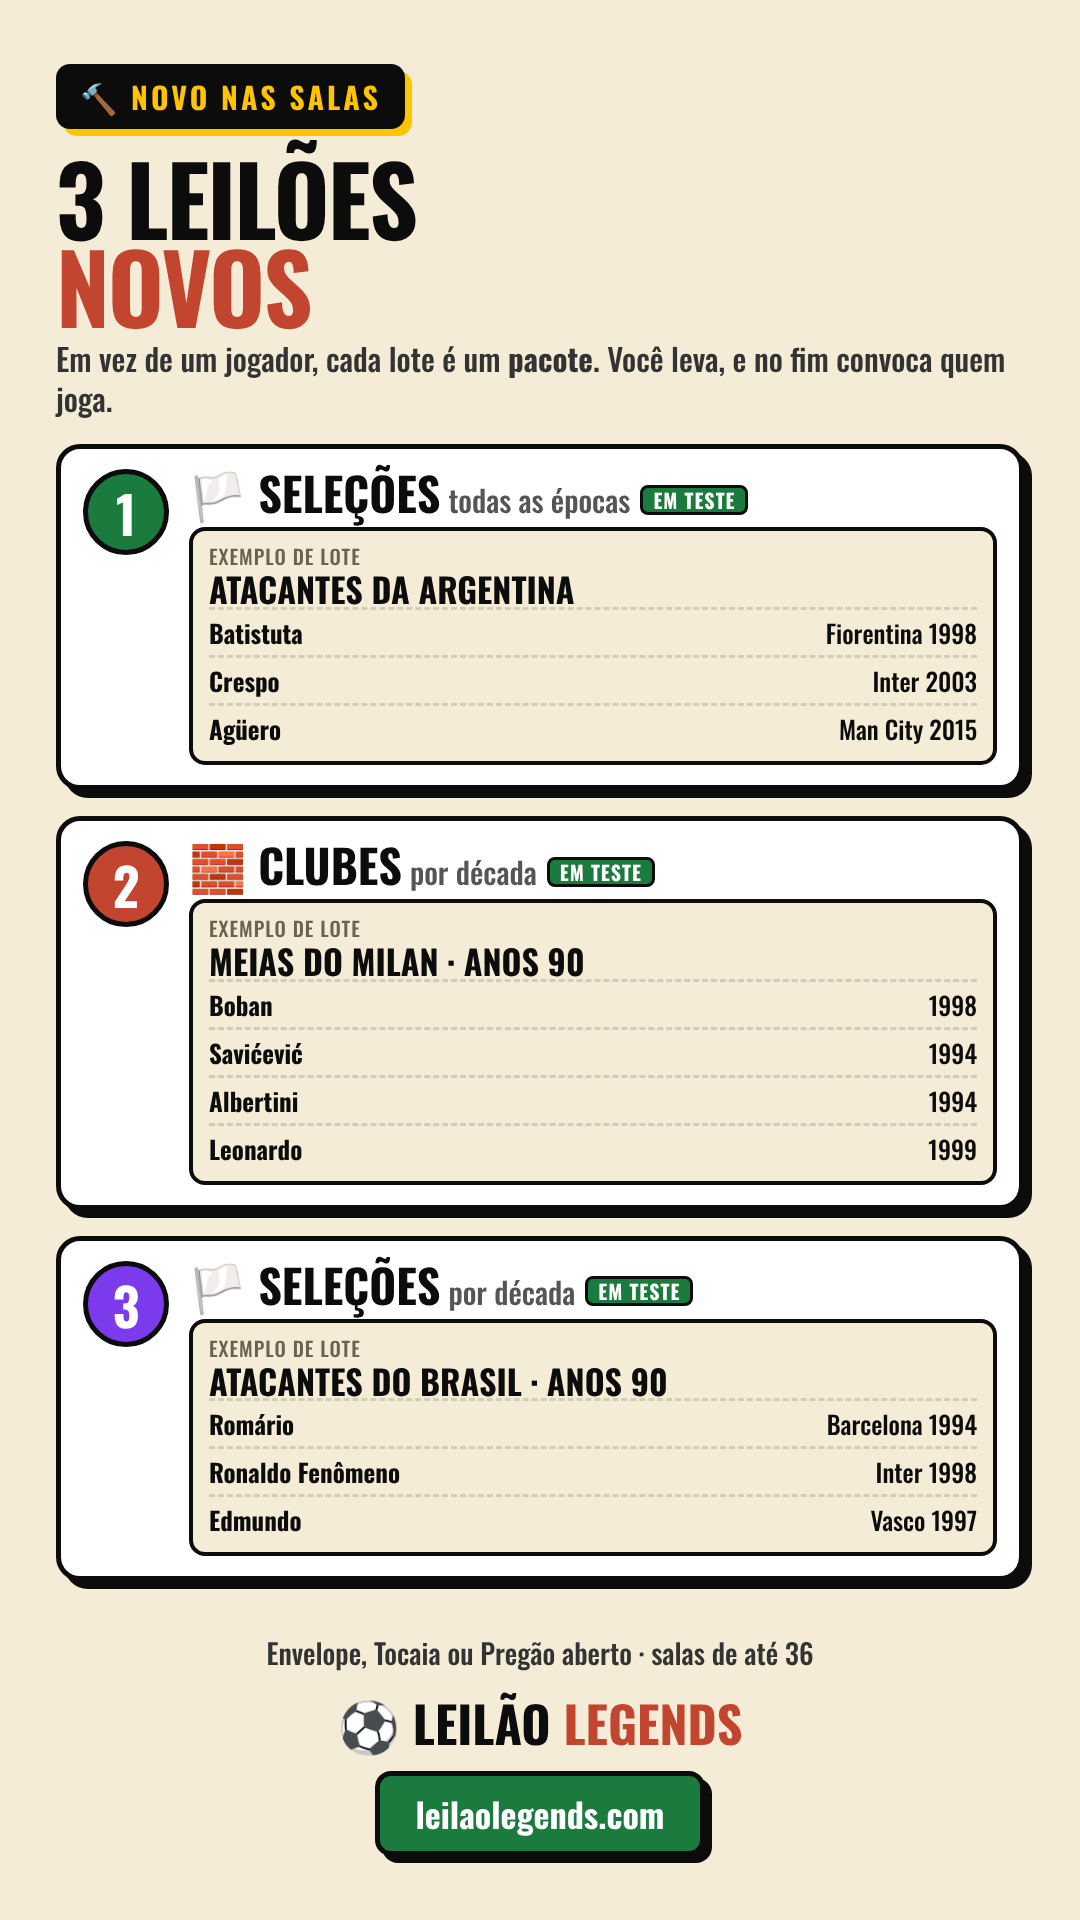
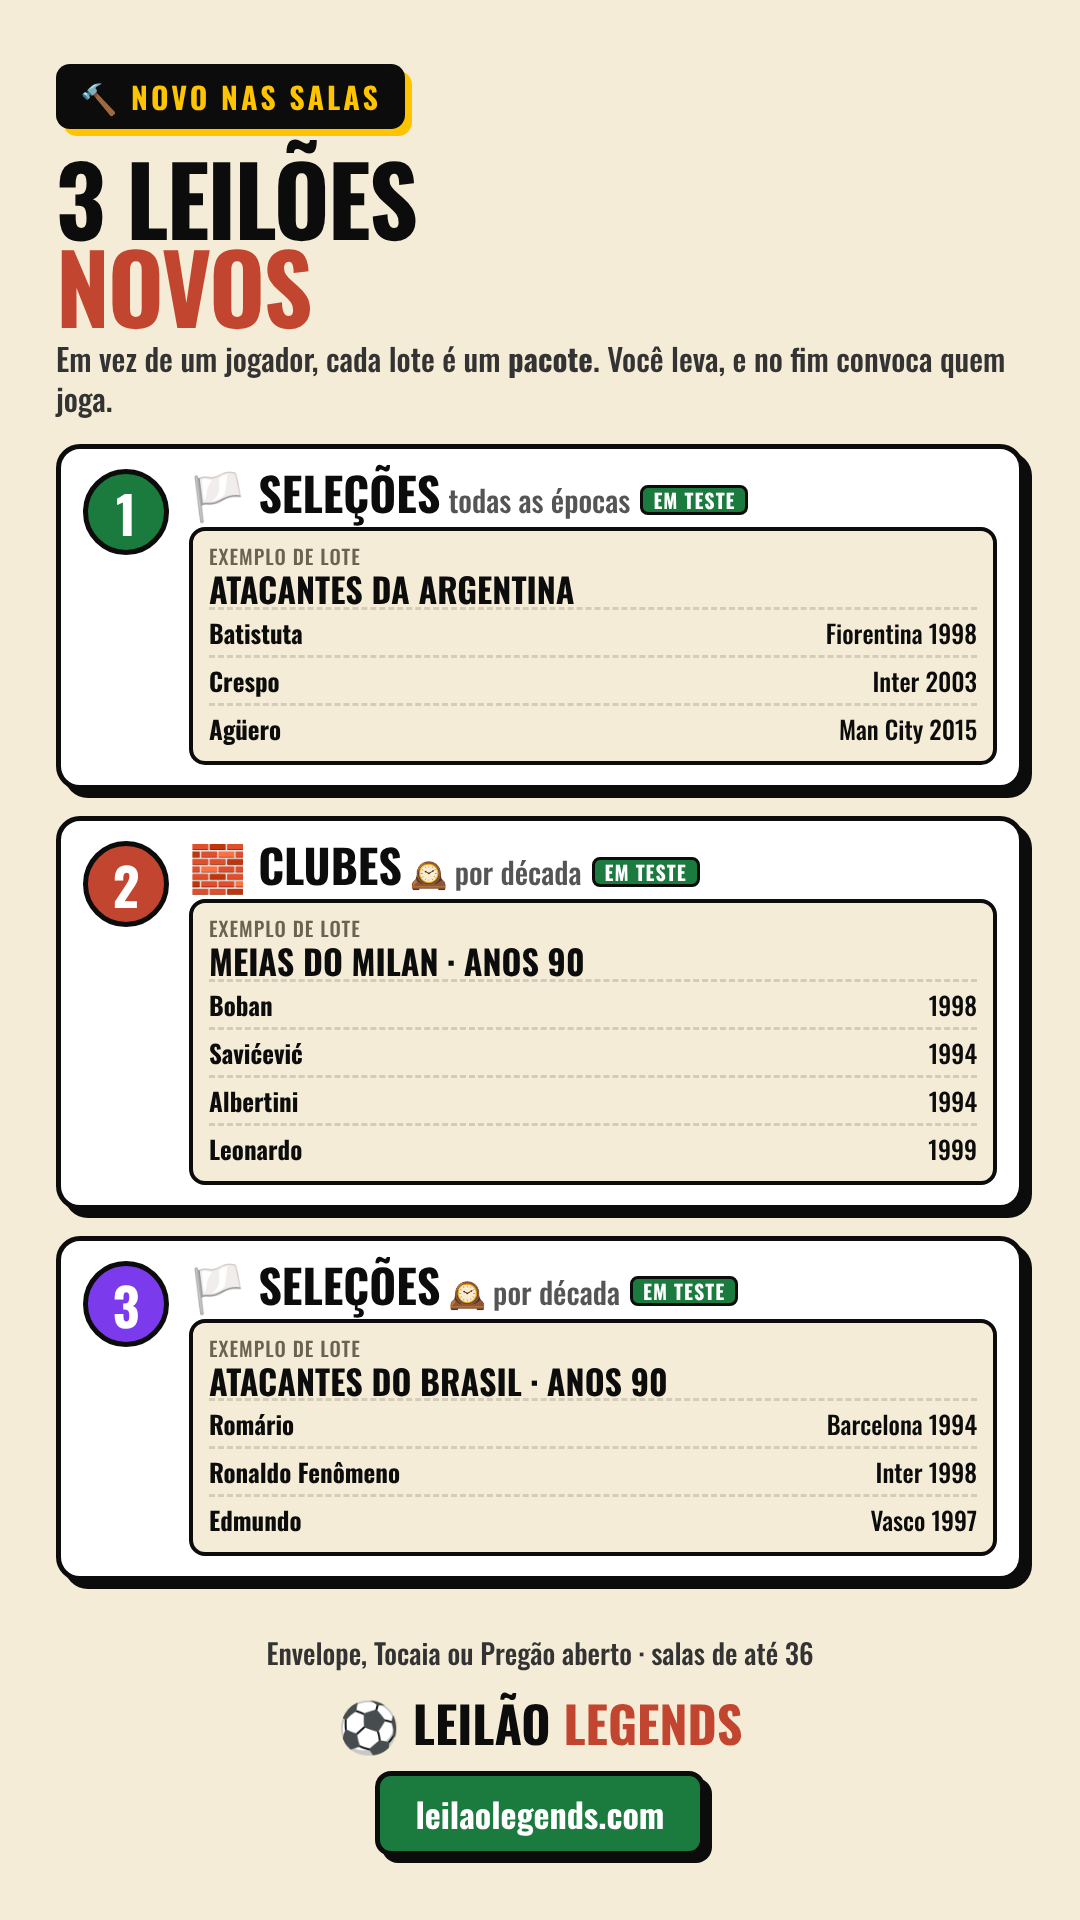
Por década: emoji vira relógio antigo 🕰 (lista de salas, criar sala, novidade e story) — pedido do Diego
Claude-Session: https://claude.ai/code/session_018Ap1zPCMVL9XeZJN3u93ZA

Changed region(s): [[0.3972, 0.6562, 0.7028, 0.6875], [0.3667, 0.4375, 0.6417, 0.4688]]

diff --git a/src/escalacao/lobby.tsx b/src/escalacao/lobby.tsx
@@ -111,7 +111,7 @@ type GS = EscState & { __game?: string; pregaoAberto?: boolean; formation?: Form
 /** 🧱🏳📅 o nome do tipo de pacote da sala (31/10): Clubes · Seleções, e "por década" quando for */
 function tipoPacote(gs: { clubes?: boolean; pacSelecao?: boolean; pacDecada?: boolean } | undefined, curto = false): string {
   const base = gs?.pacSelecao ? tr('🏳 Seleções', '🏳 Nations') : tr('🧱 Clubes', '🧱 Clubs')
-  return gs?.pacDecada ? `${base}${curto ? ' 📅' : tr(' · por década', ' · by decade')}` : base
+  return gs?.pacDecada ? `${base}${curto ? ' 🕰' : tr(' · por década', ' · by decade')}` : base
 }interface RoomInfo { id: string; code: string; host_id: string; max_players: number; status: string; game_state?: GS; updated_at?: string; liga_dono?: string | null; liga_vice?: string | null } // ⭐ liga_dono/liga_vice: vice das Minhas Ligas (19/10)
 type OpenRoom = RoomInfo & { count: number }
 
@@ -3740,7 +3740,7 @@ export function EscLobby() {
                   {rapidoClubes && clubesOn && !nbaSala && (
                     <div className="mt-2">
                       <p className="text-[11px] uppercase mb-1.5" style={{ color: '#6b6250', letterSpacing: '.08em', ...OSWALD }}>{tr('Época', 'Era')}</p>
-                      <Seg options={[[false, tr('🌍 Todas as épocas', '🌍 All eras')], [true, tr('📅 Por década', '📅 By decade')]] as [boolean, string][]} value={pacDecada} onSet={v => setPacDecada(v)}
+                      <Seg options={[[false, tr('🌍 Todas as épocas', '🌍 All eras')], [true, tr('🕰 Por década', '🕰 By decade')]] as [boolean, string][]} value={pacDecada} onSet={v => setPacDecada(v)}
                         selos={{ true: tr('em teste', 'testing') }} />
                     </div>
                   )}
@@ -3749,10 +3749,10 @@ export function EscLobby() {
                       ? tr('🧱 Cada lote é uma POSIÇÃO de uma franquia (ex.: Armadores dos Lakers). Cada um leva um pacote por posição e, no fim, CONVOCA quem joga — 1 por posição, o seu quinteto (90s). Quem sobrar vai pros bots. Vale com envelope cego, Tocaia ou pregão aberto.', '🧱 Each lot is a franchise POSITION (e.g. Lakers Point Guards). Everyone takes one pack per position and, at the end, CALLS UP who plays — 1 per position, your starting five (90s). Leftovers go to the bots. Works with sealed bid, Ambush or open auction.')
                       : rapidoClubes && pacSelecao
                       ? (pacDecada
-                        ? tr('🏳📅 Cada lote é um SETOR de uma SELEÇÃO numa década (ex.: Ataque do Brasil · anos 90). Cada um leva um pacote por setor e, no fim, CONVOCA quem joga (90s). Usa os 3 baralhos juntos. Vale com envelope cego, Tocaia ou pregão aberto.', '🏳📅 Each lot is a SECTOR of a NATIONAL TEAM in one decade (e.g. Attack of Brasil · the \'90s). Everyone takes one pack per sector and, at the end, CALLS UP who plays (90s). Uses all 3 decks. Works with sealed bid, Ambush or open auction.')
+                        ? tr('🏳🕰 Cada lote é um SETOR de uma SELEÇÃO numa década (ex.: Ataque do Brasil · anos 90). Cada um leva um pacote por setor e, no fim, CONVOCA quem joga (90s). Usa os 3 baralhos juntos. Vale com envelope cego, Tocaia ou pregão aberto.', '🏳🕰 Each lot is a SECTOR of a NATIONAL TEAM in one decade (e.g. Attack of Brasil · the \'90s). Everyone takes one pack per sector and, at the end, CALLS UP who plays (90s). Uses all 3 decks. Works with sealed bid, Ambush or open auction.')
                         : tr('🏳 Cada lote é um SETOR de uma SELEÇÃO (ex.: Ataque da Argentina), com jogadores de todas as épocas. Cada um leva um pacote por setor e, no fim, CONVOCA quem joga (90s). Usa os 3 baralhos juntos. Vale com envelope cego, Tocaia ou pregão aberto.', '🏳 Each lot is a SECTOR of a NATIONAL TEAM (e.g. Attack of Argentina), with players from every era. Everyone takes one pack per sector and, at the end, CALLS UP who plays (90s). Uses all 3 decks. Works with sealed bid, Ambush or open auction.'))
                       : rapidoClubes && pacDecada && !nbaSala
-                      ? tr('🧱📅 Cada lote é um SETOR de um clube numa década (ex.: Meio do Milan · anos 90). Cada um leva um pacote por setor e, no fim, CONVOCA quem joga (90s). Usa os 3 baralhos juntos. Vale com envelope cego, Tocaia ou pregão aberto.', '🧱📅 Each lot is a SECTOR of a club in one decade (e.g. Midfield of Milan · the \'90s). Everyone takes one pack per sector and, at the end, CALLS UP who plays (90s). Uses all 3 decks. Works with sealed bid, Ambush or open auction.')
+                      ? tr('🧱🕰 Cada lote é um SETOR de um clube numa década (ex.: Meio do Milan · anos 90). Cada um leva um pacote por setor e, no fim, CONVOCA quem joga (90s). Usa os 3 baralhos juntos. Vale com envelope cego, Tocaia ou pregão aberto.', '🧱🕰 Each lot is a SECTOR of a club in one decade (e.g. Midfield of Milan · the \'90s). Everyone takes one pack per sector and, at the end, CALLS UP who plays (90s). Uses all 3 decks. Works with sealed bid, Ambush or open auction.')
                       : rapidoClubes
                       ? tr('🧱 Cada lote é um SETOR de um clube (ex.: Goleiros do Palmeiras). Cada um leva um pacote por setor e, no fim, CONVOCA quem joga (90s). Quem sobrar vai pros bots. Usa os 3 baralhos juntos. Vale com envelope cego ou Tocaia.', '🧱 Each lot is a club SECTOR (e.g. Palmeiras goalkeepers). Everyone takes one pack per sector and, at the end, CALLS UP who plays (90s). Leftovers go to the bots. Uses all 3 decks, with sealed bid or Ambush.')
                       : clubesOn

diff --git a/src/escalacao/novidades.ts b/src/escalacao/novidades.ts
@@ -34,7 +34,7 @@ import { getLang } from './lang'
 
 // ⚠ SEMPRE em ordem: a mais NOVA em cima.
 export const NOVIDADES: Novidade[] = [
-  { data: '2026-10-31', emoji: '🏳', titulo: 'Leilão de Seleções e Por década', texto: 'Ao criar sala, além de Jogador e Clubes agora tem 🏳 Seleções ("Ataque da Argentina") e a época: todas misturadas ou 📅 por década ("Meio do Milan · anos 90"). Em teste. (Online)', en: { titulo: 'Nations auction and By decade', texto: 'When creating a room, besides Player and Clubs there is now 🏳 Nations ("Attack of Argentina") and the era: all mixed or 📅 by decade ("Midfield of Milan · the \'90s"). In testing. (Online)' } },
+  { data: '2026-10-31', emoji: '🏳', titulo: 'Leilão de Seleções e Por década', texto: 'Ao criar sala, além de Jogador e Clubes agora tem 🏳 Seleções ("Ataque da Argentina") e a época: todas misturadas ou 🕰 por década ("Meio do Milan · anos 90"). Em teste. (Online)', en: { titulo: 'Nations auction and By decade', texto: 'When creating a room, besides Player and Clubs there is now 🏳 Nations ("Attack of Argentina") and the era: all mixed or 🕰 by decade ("Midfield of Milan · the \'90s"). In testing. (Online)' } },
   { data: '2026-10-31', emoji: '🇪🇺', titulo: 'Liga + Eurocopa', texto: 'Nas salas: acabou a liga, cada um escolhe uma seleção da Europa, convoca e joga a Euro de 24 seleções — grupos, oitavas e final em jogo único. (Online)', en: { titulo: 'League + Euro', texto: 'In rooms: once the league is over, everyone picks a European nation, calls up the squad and plays the 24-team Euro — groups, round of 16 and a one-off final. (Online)' } },
   { data: '2026-10-30', emoji: '🛒', titulo: 'Mercado da bola', texto: 'Na hora de sondar jogador, cada nome mostra o clube e o ano da carta (o Neymar do Santos ou o do Barcelona) e onde ele está hoje, com botões de posição e quem ainda tem contrato guardado no fim de cada setor. (Carreira)', en: { titulo: 'Transfer market', texto: 'When scouting a player, each name now shows the card club and year (Santos Neymar or Barcelona Neymar) and where he is today, with position buttons and players still under contract tucked at the end of each sector. (Career)' } },
   { data: '2026-10-28', emoji: '⚡', titulo: 'Envelope único', texto: 'Jeito novo de dar lance: as 5 posições num envelope só, uma revelação só, e o que sobrar volta numa 2ª lista antes do Monte. Empate é sorteio. (Partida rápida e salas)', en: { titulo: 'Single envelope', texto: 'A new way to bid: all 5 positions in one envelope, one reveal, and whatever is left comes back in a 2nd list before the Pile. Ties are drawn. (Quick match and rooms)' } },
